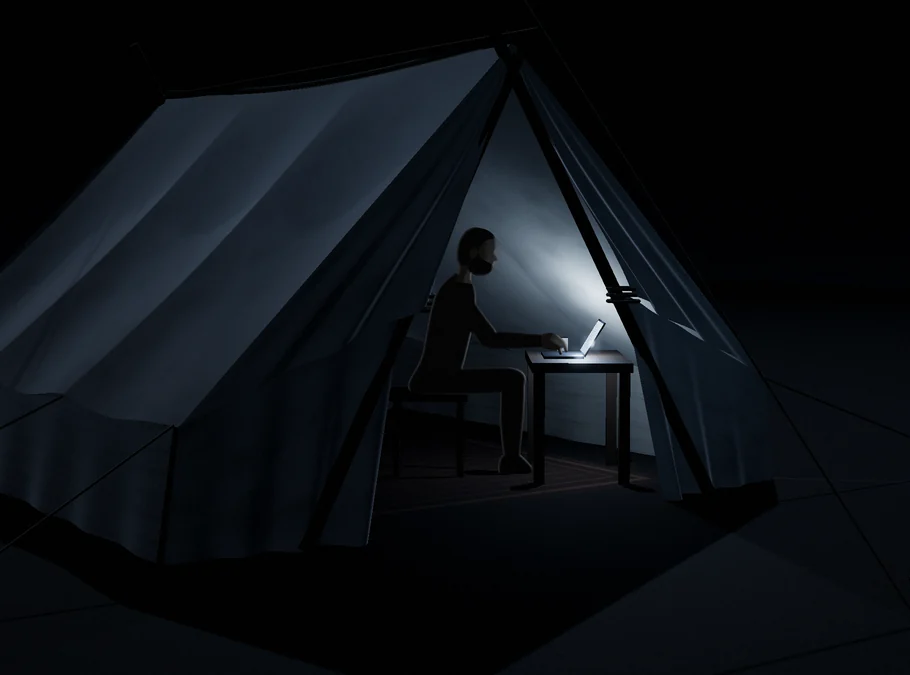
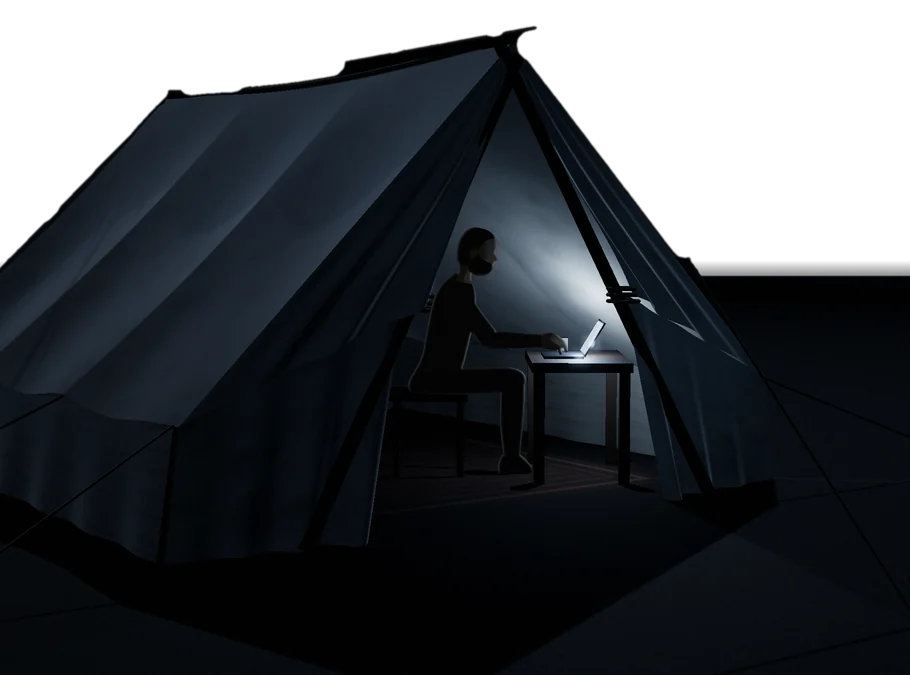
Put the tent under a night sky that wakes like Stewardship.Capital's field
A star field behind the page, drawn the way Stewardship.Capital's hero field
is: faint twinkling stars at rest, and wherever attention is (the pointer, or
a slow drift when nobody is pointing) nearby stars brighten into the cool
light and join into constellation lines, then settle back. Canvas 2D, no
dependencies, one still frame under reduced motion, and a scrim behind the
words so the headline stays legible.

The tent image's sky is now transparent, so the stars sit behind the tent's
roofline; the ground stays opaque. On a phone the sky ends at the tent's
ground, above the headline.

Claude-Session: https://claude.ai/code/session_01A8mnoQrzTJAvQKhF96HvHe

Changed region(s): [[0.0, 0.0, 1.0, 0.4356]]

diff --git a/app/tentmaiker/star-field.tsx b/app/tentmaiker/star-field.tsx
@@ -1,0 +1,214 @@
+"use client";
+
+import { useEffect, useRef } from "react";
+
+type Star = {
+  x: number;
+  y: number;
+  /** Apparent size, 0 faint to 1 bright. */
+  mag: number;
+  /** 0 at rest, 1 fully lit. */
+  a: number;
+  phase: number;
+  /** Indices of the nearest stars, for constellation lines. */
+  near: number[];
+};
+
+const RADIUS = 240;
+const IDLE_MS = 2000;
+/* Cool light, the same as the laptop's and the AI in the name. */
+const LIGHT = "156, 202, 255";
+
+/** A small deterministic generator, so the sky never reshuffles on resize. */
+const rng = (seed: number) => () => {
+  seed = (seed * 1664525 + 1013904223) >>> 0;
+  return seed / 4294967296;
+};
+
+/**
+ * The night over the tent.
+ *
+ * A quiet field of stars. Attention (the pointer, or a slow drift when nobody
+ * is pointing) wakes the stars near it: they brighten into the cool light and
+ * join their neighbours in constellation lines, then settle back. Many small
+ * points, drawn together into something that holds its shape.
+ *
+ * The same structure as Stewardship.Capital's field, drawn as a sky. Canvas
+ * 2D, no dependencies, and a single still frame under reduced motion.
+ */
+export function StarField() {
+  const canvasRef = useRef<HTMLCanvasElement | null>(null);
+
+  useEffect(() => {
+    const canvas = canvasRef.current;
+    if (!canvas) return;
+    const ctx = canvas.getContext("2d", { alpha: true });
+    if (!ctx) return;
+
+    const reduceMotion = window.matchMedia("(prefers-reduced-motion: reduce)").matches;
+
+    let width = 0;
+    let height = 0;
+    let stars: Star[] = [];
+    let frame = 0;
+    let pointerX = -9999;
+    let pointerY = -9999;
+    let lastPointer = -IDLE_MS * 2;
+    let attractorX = 0;
+    let attractorY = 0;
+    let seeded = false;
+
+    const build = () => {
+      const rect = canvas.getBoundingClientRect();
+      const dpr = Math.min(window.devicePixelRatio || 1, 2);
+      width = rect.width;
+      height = rect.height;
+      canvas.width = Math.round(width * dpr);
+      canvas.height = Math.round(height * dpr);
+      ctx.setTransform(dpr, 0, 0, dpr, 0, 0);
+
+      /* A jittered grid with gaps reads as a sky rather than a pattern. Fewer,
+         larger cells on a phone. */
+      const cell = width < 640 ? 44 : 52;
+      const random = rng(20260925);
+      stars = [];
+      for (let y = -cell; y < height + cell; y += cell) {
+        for (let x = -cell; x < width + cell; x += cell) {
+          if (random() < 0.34) continue;
+          const mag = Math.pow(random(), 2.6);
+          stars.push({
+            x: x + random() * cell,
+            y: y + random() * cell,
+            mag,
+            a: 0,
+            phase: random() * Math.PI * 2,
+            near: [],
+          });
+        }
+      }
+      /* Each star knows its three nearest neighbours within reach. */
+      const reach = cell * 2.1;
+      for (let i = 0; i < stars.length; i += 1) {
+        const s = stars[i];
+        const found: Array<[number, number]> = [];
+        for (let j = 0; j < stars.length; j += 1) {
+          if (i === j) continue;
+          const dx = stars[j].x - s.x;
+          const dy = stars[j].y - s.y;
+          const d = dx * dx + dy * dy;
+          if (d < reach * reach) found.push([d, j]);
+        }
+        found.sort((p, q) => p[0] - q[0]);
+        s.near = found.slice(0, 3).map(([, j]) => j).filter((j) => j > i);
+      }
+
+      if (!seeded) {
+        attractorX = width * 0.68;
+        attractorY = height * 0.24;
+        seeded = true;
+      }
+    };
+
+    const wake = (x: number, y: number, rate: number) => {
+      for (let i = 0; i < stars.length; i += 1) {
+        const s = stars[i];
+        const dx = x - s.x;
+        const dy = y - s.y;
+        const dist = Math.sqrt(dx * dx + dy * dy);
+        const target = dist < RADIUS ? Math.pow(1 - dist / RADIUS, 1.6) : 0;
+        s.a += (target - s.a) * rate;
+      }
+    };
+
+    const draw = (time: number) => {
+      ctx.clearRect(0, 0, width, height);
+
+      /* Constellations: only between stars that attention has lit. */
+      ctx.lineWidth = 1;
+      for (let i = 0; i < stars.length; i += 1) {
+        const s = stars[i];
+        for (const j of s.near) {
+          const t = stars[j];
+          const e = Math.min(s.a, t.a);
+          if (e < 0.12) continue;
+          ctx.strokeStyle = `rgba(${LIGHT}, ${((e - 0.12) * 0.75).toFixed(3)})`;
+          ctx.beginPath();
+          ctx.moveTo(s.x, s.y);
+          ctx.lineTo(t.x, t.y);
+          ctx.stroke();
+        }
+      }
+
+      /* The stars. At rest they are faint and twinkle; lit, they take the
+         cool light and a soft halo. */
+      for (let i = 0; i < stars.length; i += 1) {
+        const s = stars[i];
+        const twinkle = 0.55 + 0.45 * Math.sin(time * 0.0011 + s.phase);
+        const rest = (0.1 + s.mag * 0.5) * twinkle;
+        const size = 0.55 + s.mag * 1.1 + s.a * 1.6;
+        if (s.a > 0.05) {
+          const glow = s.a * (0.35 + s.mag * 0.4);
+          const g = ctx.createRadialGradient(s.x, s.y, 0, s.x, s.y, size * 6);
+          g.addColorStop(0, `rgba(${LIGHT}, ${glow.toFixed(3)})`);
+          g.addColorStop(1, `rgba(${LIGHT}, 0)`);
+          ctx.fillStyle = g;
+          ctx.fillRect(s.x - size * 6, s.y - size * 6, size * 12, size * 12);
+          ctx.fillStyle = `rgba(${Math.round(255 - 99 * s.a)}, ${Math.round(255 - 53 * s.a)}, 255, ${Math.min(1, rest + s.a).toFixed(3)})`;
+        } else {
+          ctx.fillStyle = `rgba(255, 255, 255, ${rest.toFixed(3)})`;
+        }
+        ctx.beginPath();
+        ctx.arc(s.x, s.y, size, 0, Math.PI * 2);
+        ctx.fill();
+      }
+    };
+
+    const render = (time: number) => {
+      const idle = time - lastPointer > IDLE_MS;
+      /* Idle, attention drifts across the sky on its own, slowly, so the
+         page is alive on a phone and on first load. */
+      const targetX = idle ? width * 0.55 + Math.cos(time * 0.00016) * width * 0.36 : pointerX;
+      const targetY = idle ? height * 0.24 + Math.sin(time * 0.00023) * height * 0.13 : pointerY;
+      const chase = idle ? 0.02 : 0.14;
+      attractorX += (targetX - attractorX) * chase;
+      attractorY += (targetY - attractorY) * chase;
+      wake(attractorX, attractorY, 0.09);
+      draw(time);
+      frame = window.requestAnimationFrame(render);
+    };
+
+    const renderStatic = () => {
+      for (let pass = 0; pass < 40; pass += 1) wake(width * 0.7, height * 0.22, 0.2);
+      draw(0);
+    };
+
+    const onPointerMove = (event: PointerEvent) => {
+      const rect = canvas.getBoundingClientRect();
+      pointerX = event.clientX - rect.left;
+      pointerY = event.clientY - rect.top;
+      lastPointer = performance.now();
+    };
+
+    const onResize = () => {
+      build();
+      if (reduceMotion) renderStatic();
+    };
+
+    build();
+    if (reduceMotion) {
+      renderStatic();
+    } else {
+      frame = window.requestAnimationFrame(render);
+      window.addEventListener("pointermove", onPointerMove, { passive: true });
+    }
+    window.addEventListener("resize", onResize);
+
+    return () => {
+      window.cancelAnimationFrame(frame);
+      window.removeEventListener("pointermove", onPointerMove);
+      window.removeEventListener("resize", onResize);
+    };
+  }, []);
+
+  return <canvas ref={canvasRef} className="tm-sky" aria-hidden="true" />;
+}

diff --git a/app/tentmaiker/tentmaiker.css b/app/tentmaiker/tentmaiker.css
@@ -45,11 +45,52 @@ html:has(.tm) body {
 }
 
 .tm-page {
+  position: relative;
+  isolation: isolate;
   min-height: 100svh;
   display: grid;
   grid-template-rows: auto 1fr;
   padding: clamp(22px, 3.2vw, 40px) var(--tm-pad-x);
   overflow: hidden;
+}
+
+/* -------------------------------------------------------------- the sky */
+
+/* Stars behind everything, fading out toward the ground so they sit in the
+   sky, and fading in with the page like Stewardship.Capital's field. */
+.tm-sky {
+  position: absolute;
+  inset: 0;
+  width: 100%;
+  height: 100%;
+  z-index: -2;
+  -webkit-mask-image: linear-gradient(#000 55%, transparent 88%);
+  mask-image: linear-gradient(#000 55%, transparent 88%);
+  animation: tm-sky-in 1.8s cubic-bezier(0.16, 1, 0.3, 1) both;
+}
+
+@keyframes tm-sky-in {
+  from {
+    opacity: 0;
+  }
+  to {
+    opacity: 1;
+  }
+}
+
+/* Keeps the words legible wherever the sky lights up behind them. */
+.tm-page::after {
+  content: "";
+  position: absolute;
+  inset: 0;
+  z-index: -1;
+  pointer-events: none;
+  background: radial-gradient(
+    90% 80% at 4% 50%,
+    rgba(4, 5, 6, 0.9) 0%,
+    rgba(4, 5, 6, 0.55) 32%,
+    rgba(4, 5, 6, 0) 60%
+  );
 }
 
 /* ------------------------------------------------------------- the name */
@@ -114,11 +155,11 @@ html:has(.tm) body {
   margin-right: calc(-1 * var(--tm-pad-x));
   -webkit-mask-image:
     linear-gradient(to right, transparent, #000 16%, #000 90%, transparent),
-    linear-gradient(to bottom, transparent, #000 18%, #000 84%, transparent);
+    linear-gradient(to bottom, #000 84%, transparent);
   -webkit-mask-composite: source-in;
   mask-image:
     linear-gradient(to right, transparent, #000 16%, #000 90%, transparent),
-    linear-gradient(to bottom, transparent, #000 18%, #000 84%, transparent);
+    linear-gradient(to bottom, #000 84%, transparent);
   mask-composite: intersect;
 }
 
@@ -132,6 +173,12 @@ html:has(.tm) body {
 
 /* The picture leads, edge to edge; the words follow underneath. */
 @media (max-width: 760px) {
+  /* The sky ends at the tent's ground, above the words. */
+  .tm-sky {
+    -webkit-mask-image: linear-gradient(#000 34%, transparent 58%);
+    mask-image: linear-gradient(#000 34%, transparent 58%);
+  }
+
   .tm-hero {
     grid-template-columns: 1fr;
     align-content: center;
@@ -145,9 +192,9 @@ html:has(.tm) body {
     width: auto;
     max-width: none;
     margin: 18px calc(-1 * var(--tm-pad-x)) 0;
-    -webkit-mask-image: linear-gradient(transparent, #000 16%, #000 80%, transparent);
+    -webkit-mask-image: linear-gradient(#000 80%, transparent);
     -webkit-mask-composite: source-over;
-    mask-image: linear-gradient(transparent, #000 16%, #000 80%, transparent);
+    mask-image: linear-gradient(#000 80%, transparent);
     mask-composite: add;
   }
 
@@ -162,5 +209,11 @@ html:has(.tm) body {
 
   .tm-ref {
     margin-top: 24px;
+  }
+}
+
+@media (prefers-reduced-motion: reduce) {
+  .tm-sky {
+    animation: none;
   }
 }

diff --git a/app/tentmaiker/page.tsx b/app/tentmaiker/page.tsx
@@ -3,6 +3,8 @@ import { getImageProps } from "next/image";
 
 import { PRODUCT_ORIGIN } from "@lib/spark/hosts";
 
+import { StarField } from "./star-field";
+
 const NAME = "Tent MAiKER";
 const LINE = "Making Tents. Funding Mission.";
 const ALT =
@@ -64,6 +66,8 @@ function Tent() {
 export default function TentMaikerPage() {
   return (
     <main className="tm-page">
+      <StarField />
+
       <p className="tm-mark">
         <span className="tm-sr">{NAME}</span>
         <span aria-hidden="true">
